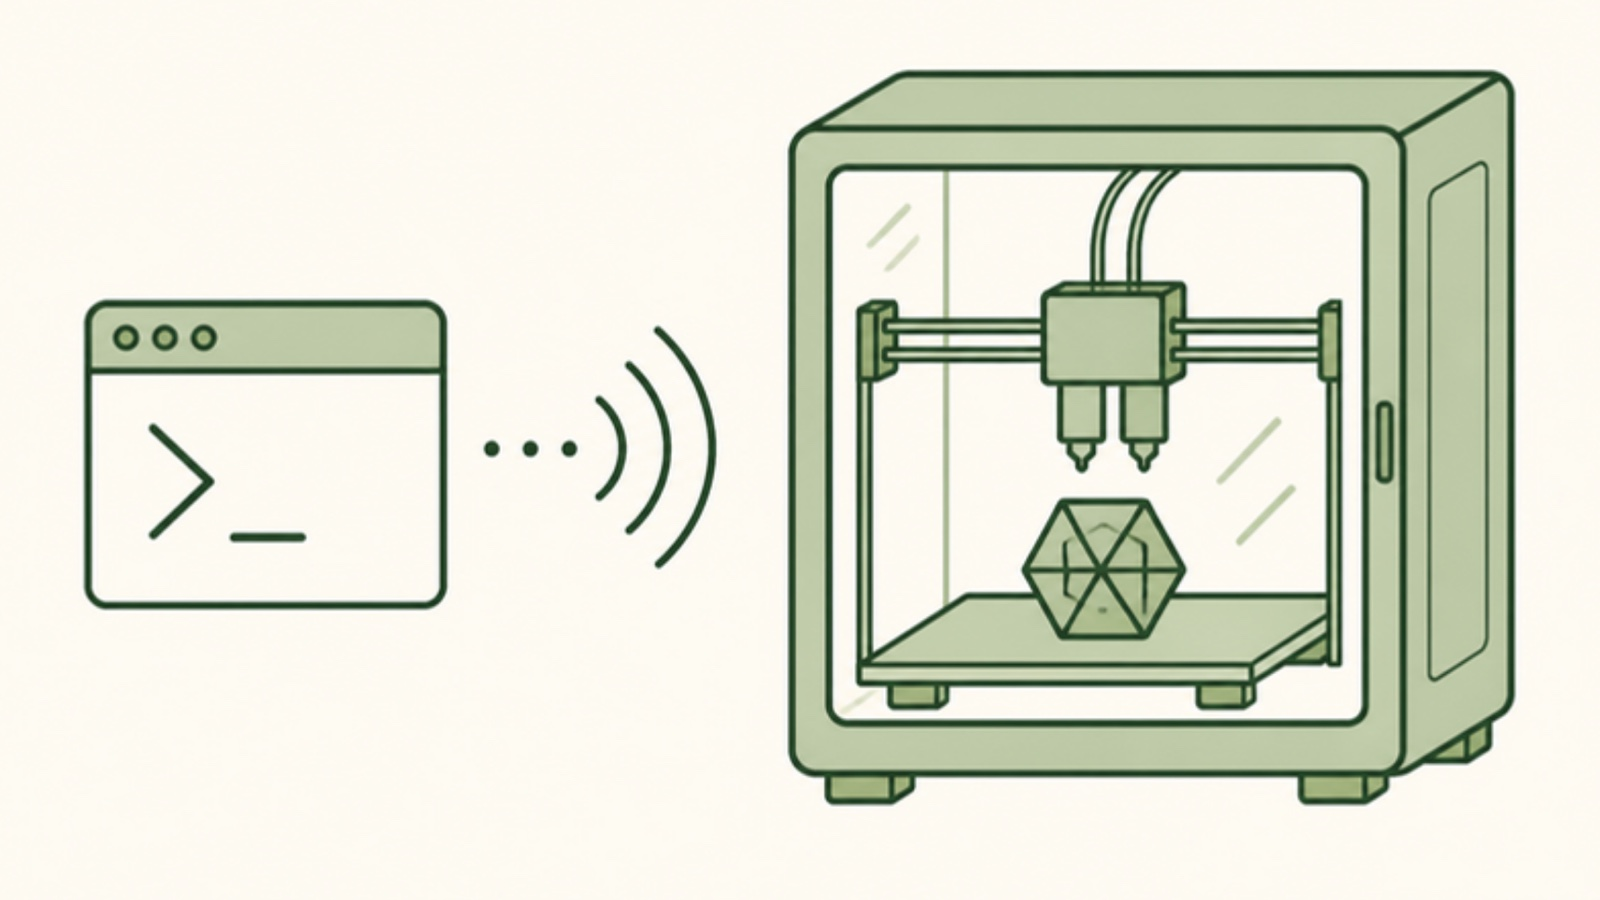
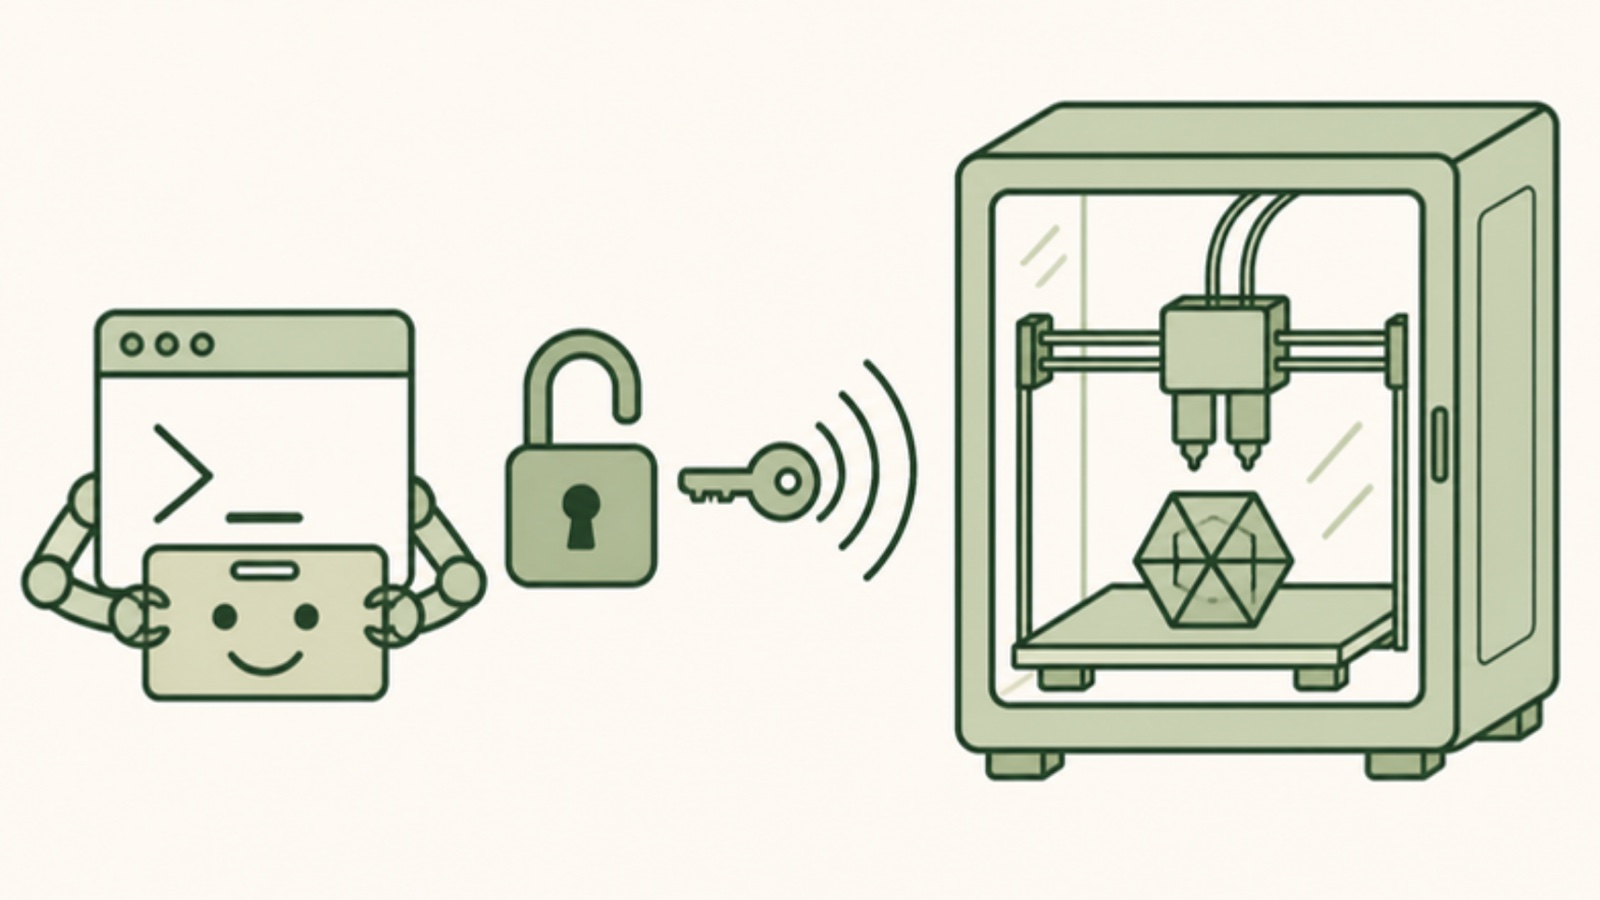
Use masquerade title and cover for Bambu Headless post and add project tile

diff --git a/index.html b/index.html
@@ -67,7 +67,8 @@
           { "@type": "ListItem", "position": 7, "item": { "@type": "SoftwareSourceCode", "name": "H2D Custom Dashboard", "description": "Local status monitoring and optional exhaust control for the Bambu H2D.", "url": "https://danielyaa5.github.io/h2d-custom-dashboard/", "codeRepository": "https://github.com/danielyaa5/h2d-custom-dashboard", "author": { "@id": "https://danielyakobian.com/#person" } } },
           { "@type": "ListItem", "position": 8, "item": { "@type": "WebApplication", "name": "Buy or Rent", "description": "Compare the long-term numbers behind buying a home versus renting.", "url": "https://buy-or-rent-web.vercel.app/", "sameAs": ["https://github.com/danielyaa5/buy-or-rent-web"], "applicationCategory": "FinanceApplication", "operatingSystem": "Any", "browserRequirements": "Requires JavaScript", "isAccessibleForFree": true, "author": { "@id": "https://danielyakobian.com/#person" } } },
           { "@type": "ListItem", "position": 9, "item": { "@type": "SoftwareApplication", "name": "qtfaststart2", "description": "Move MP4 metadata to the front for faster streaming starts without re-encoding.", "url": "https://github.com/danielyaa5/qtfaststart2", "sameAs": ["https://pypi.org/project/qtfaststart2/"], "applicationCategory": "DeveloperApplication", "operatingSystem": "macOS, Windows, Linux", "isAccessibleForFree": true, "author": { "@id": "https://danielyakobian.com/#person" } } },
-          { "@type": "ListItem", "position": 10, "item": { "@type": "SoftwareApplication", "name": "Netflix PiP Fixer", "description": "Keep Netflix picture-in-picture available while you browse.", "url": "https://github.com/danielyaa5/netflix-pip-fixer", "applicationCategory": "BrowserApplication", "operatingSystem": "Chrome", "isAccessibleForFree": true, "author": { "@id": "https://danielyakobian.com/#person" } } }
+          { "@type": "ListItem", "position": 10, "item": { "@type": "SoftwareApplication", "name": "Netflix PiP Fixer", "description": "Keep Netflix picture-in-picture available while you browse.", "url": "https://github.com/danielyaa5/netflix-pip-fixer", "applicationCategory": "BrowserApplication", "operatingSystem": "Chrome", "isAccessibleForFree": true, "author": { "@id": "https://danielyakobian.com/#person" } } },
+          { "@type": "ListItem", "position": 11, "item": { "@type": "SoftwareApplication", "name": "bambu-headless", "description": "Run a Bambu H2D from a macOS terminal while keeping Handy enabled and Developer Mode off.", "url": "https://github.com/danielyaa5/bambu-headless", "applicationCategory": "DeveloperApplication", "operatingSystem": "macOS", "isAccessibleForFree": true, "author": { "@id": "https://danielyakobian.com/#person" } } }
         ]
       }
     ]
@@ -142,7 +143,7 @@
           <button type="button" data-filter="developer" aria-pressed="false" aria-controls="project-list">Developer tools</button>
           <button type="button" data-filter="printing" aria-pressed="false" aria-controls="project-list">3D printing</button>
         </div>
-        <p class="filter-count" role="status" aria-live="polite" hidden>8 projects</p>
+        <p class="filter-count" role="status" aria-live="polite" hidden>9 projects</p>
         <div class="project-grid" id="project-list" aria-labelledby="other-projects-title">
           <article class="project project-shop" data-category="printing">
             <div class="project-main">
@@ -232,12 +233,23 @@
             </div>
             <div class="project-footer"><a class="project-link" href="https://github.com/danielyaa5/netflix-pip-fixer" aria-label="Netflix PiP Fixer on GitHub"><img class="link-icon" src="assets/illustrations/link.svg" width="14" height="14" alt=""><span>github.com/danielyaa5/netflix-pip-fixer</span></a></div>
           </article>
+          <article class="project" data-category="printing">
+            <div class="project-main">
+              <div class="project-art"><img class="project-illustration" src="assets/illustrations/bambu-headless.webp" width="1475" height="778" style="--art-width: 145px" alt=""></div>
+              <div class="project-copy">
+                <h2><a class="project-name" href="https://github.com/danielyaa5/bambu-headless">bambu-headless</a></h2>
+                <p class="project-benefit">Run a Bambu H2D from a macOS terminal while keeping Handy enabled and Developer Mode off.</p>
+                <span class="category">3D printing</span>
+              </div>
+            </div>
+            <div class="project-footer"><a class="project-link" href="https://github.com/danielyaa5/bambu-headless" aria-label="bambu-headless on GitHub"><img class="link-icon" src="assets/illustrations/link.svg" width="14" height="14" alt=""><span>github.com/danielyaa5/bambu-headless</span></a></div>
+          </article>
         </div>
       </section>
       <section class="writing" id="writing" aria-labelledby="writing-title">
         <h2 id="writing-title">Writings</h2>
         <div class="writing-grid">
-          <article class="writing-card"><h3><a href="blog/bambu-headless-cli.html">Running my Bambu H2D from the command line</a></h3><p>A macOS CLI for checking my Bambu H2D, managing sliced files and starting a print while keeping Handy enabled and Developer Mode off.</p><img class="writing-thumb" src="assets/writing/bambu-headless-cli.webp" width="1600" height="900" alt="Illustration of a terminal window sending commands wirelessly to an enclosed dual-nozzle 3D printer" loading="lazy"><a class="writing-link" href="blog/bambu-headless-cli.html">Read article →</a></article>
+          <article class="writing-card"><h3><a href="blog/bambu-headless-cli.html">Bypassing Bambu’s MQTT signature check by masquerading as Bambu Studio</a></h3><p>How a <code>dyld</code> executable-path shim and a C++ bridge let a Python CLI sign H2D print commands using Studio’s own closed-source networking dylib.</p><img class="writing-thumb" src="assets/writing/bambu-headless-cli.webp" width="1600" height="900" alt="Illustration of a terminal window holding a disguise mask to pass a signature checkpoint and reach an enclosed dual-nozzle 3D printer" loading="lazy"><a class="writing-link" href="blog/bambu-headless-cli.html">Read article →</a></article>
           <article class="writing-card"><h3><a href="blog/agent-qa-separate-macos-account.html">Giving my AI agent its own Mac account for QA</a></h3><p>How I use a second macOS account to give an AI agent its own desktop for app testing while I keep working.</p><img class="writing-thumb" src="assets/writing/screen-sharing-recursion.webp" width="1600" height="900" alt="Illustration of Screen Sharing windows nested inside each other, switching between the main and QA accounts" loading="lazy"><a class="writing-link" href="blog/agent-qa-separate-macos-account.html">Read article →</a></article>
           <article class="writing-card writing-card-wide"><h3><a href="https://github.com/danielyaa5/ai-trader-writeup">Building an AI Trader With Deterministic Risk Controls</a></h3><p>I built an experimental trading system that uses one model to propose trades, two others to review them, and Python to enforce the rules between those steps.</p><img class="writing-thumb" src="assets/writing/ai-trader.webp" width="1600" height="900" alt="AI Trader dashboard charts with fictional demo data: account equity per run, a decision funnel, reviewer verdicts, top veto reasons and exit contract ladders" loading="lazy"><a class="writing-link" href="https://github.com/danielyaa5/ai-trader-writeup">Read article →</a></article>
         </div>

diff --git a/blog/bambu-headless-cli.html b/blog/bambu-headless-cli.html
@@ -3,12 +3,12 @@
 <head>
   <meta charset="utf-8">
   <meta name="viewport" content="width=device-width, initial-scale=1">
-  <meta name="description" content="A macOS CLI for checking my Bambu H2D, managing sliced files and starting a print while keeping Handy enabled and Developer Mode off.">
+  <meta name="description" content="How a dyld executable-path shim and a C++ bridge let a Python CLI sign H2D print commands using Studio’s own closed-source networking dylib.">
   <meta name="author" content="Daniel Yakobian">
   <meta name="theme-color" content="#fdfaf3">
   <meta property="og:site_name" content="Daniel Yakobian">
-  <meta property="og:title" content="Running my Bambu H2D from the command line">
-  <meta property="og:description" content="A macOS CLI for checking my Bambu H2D, managing sliced files and starting a print while keeping Handy enabled and Developer Mode off.">
+  <meta property="og:title" content="Bypassing Bambu’s MQTT signature check by masquerading as Bambu Studio">
+  <meta property="og:description" content="How a dyld executable-path shim and a C++ bridge let a Python CLI sign H2D print commands using Studio’s own closed-source networking dylib.">
   <meta property="og:type" content="article">
   <meta property="og:url" content="https://danielyakobian.com/blog/bambu-headless-cli.html">
   <meta property="og:image" content="https://danielyakobian.com/assets/writing/bambu-headless-cli.jpg">
@@ -17,7 +17,7 @@
   <meta property="article:published_time" content="2026-10-26">
   <meta property="article:author" content="https://danielyakobian.com/">
   <meta name="twitter:card" content="summary_large_image">
-  <title>Running my Bambu H2D from the command line | Daniel Yakobian</title>
+  <title>Bypassing Bambu’s MQTT signature check by masquerading as Bambu Studio | Daniel Yakobian</title>
   <link rel="canonical" href="https://danielyakobian.com/blog/bambu-headless-cli.html">
   <link rel="icon" type="image/png" sizes="128x128" href="../assets/favicon.png">
   <link rel="stylesheet" href="../styles.css?v=mobile-touch-1">
@@ -26,8 +26,8 @@
   {
     "@context": "https://schema.org",
     "@type": "BlogPosting",
-    "headline": "Running my Bambu H2D from the command line",
-    "description": "A macOS CLI for checking my Bambu H2D, managing sliced files and starting a print while keeping Handy enabled and Developer Mode off.",
+    "headline": "Bypassing Bambu’s MQTT signature check by masquerading as Bambu Studio",
+    "description": "How a dyld executable-path shim and a C++ bridge let a Python CLI sign H2D print commands using Studio’s own closed-source networking dylib.",
     "url": "https://danielyakobian.com/blog/bambu-headless-cli.html",
     "mainEntityOfPage": "https://danielyakobian.com/blog/bambu-headless-cli.html",
     "image": "https://danielyakobian.com/assets/writing/bambu-headless-cli.jpg",
@@ -45,10 +45,10 @@
     <header class="site-header"><a class="identity" href="../" aria-label="Daniel, home">Daniel</a><nav aria-label="Main navigation"><a href="../#work">Work</a><a href="./" aria-current="page">Blog</a><a href="https://github.com/danielyaa5">GitHub</a></nav></header>
     <main id="content">
       <article class="blog-article">
-        <header class="article-header"><p class="eyebrow">Notes on 3D printing</p><h1>Running my Bambu H2D from the command line</h1><p class="article-meta"><a href="../" rel="author">Daniel Yakobian</a> · <time datetime="2026-10-26">October 26, 2026</time></p></header>
+        <header class="article-header"><p class="eyebrow">Notes on 3D printing</p><h1>Bypassing Bambu’s MQTT signature check by masquerading as Bambu Studio</h1><p class="article-meta"><a href="../" rel="author">Daniel Yakobian</a> · <time datetime="2026-10-26">October 26, 2026</time></p></header>
         <div class="article-body">
-          <p>I wanted to send an already sliced print to my Bambu H2D from a terminal, without opening Bambu Studio or giving up Handy. That became <a href="https://github.com/danielyaa5/bambu-headless">bambu-headless</a>: a small macOS CLI for checking the printer, managing its files and starting a job.</p>
-          <figure class="article-figure"><img src="../assets/writing/bambu-headless-cli.webp" width="1600" height="900" alt="Illustration of a terminal window sending commands wirelessly to an enclosed dual-nozzle 3D printer"><figcaption>Sending print and file commands from a macOS terminal to the enclosed H2D.</figcaption></figure>
+          <p>I wanted to send an already sliced print to my Bambu H2D from a terminal, without opening Bambu Studio or giving up Handy. That became <a href="https://github.com/danielyaa5/bambu-headless">bambu-headless</a>: a small macOS CLI that loads Studio’s closed-source networking dylib through a C++ bridge and uses a <code>dyld</code> executable-path shim to sign print commands.</p>
+          <figure class="article-figure"><img src="../assets/writing/bambu-headless-cli.webp" width="1600" height="900" alt="Illustration of a terminal window holding a disguise mask to pass a signature checkpoint and reach an enclosed dual-nozzle 3D printer"><figcaption>Masquerading as Bambu Studio’s executable path so the networking plugin signs local MQTT print commands.</figcaption></figure>
           <p>The printer keeps its cloud connection, Developer Mode stays off, and Studio can stay closed. The less obvious part is that the tool still depends on Studio's installed networking plugin.</p>
 
           <h2>Connecting was the easy part</h2>

diff --git a/blog/index.html b/blog/index.html
@@ -29,7 +29,7 @@
     "inLanguage": "en",
     "author": { "@type": "Person", "@id": "https://danielyakobian.com/#person", "name": "Daniel Yakobian", "url": "https://danielyakobian.com/" },
     "blogPost": [
-      {"@type": "BlogPosting", "headline": "Running my Bambu H2D from the command line", "url": "https://danielyakobian.com/blog/bambu-headless-cli.html", "datePublished": "2026-10-26"},
+      {"@type": "BlogPosting", "headline": "Bypassing Bambu’s MQTT signature check by masquerading as Bambu Studio", "url": "https://danielyakobian.com/blog/bambu-headless-cli.html", "datePublished": "2026-10-26"},
       { "@type": "BlogPosting", "headline": "Teaching my K1 Max to turn on its own chamber heater", "url": "https://danielyakobian.com/blog/k1-max-chamber-heater.html", "datePublished": "2026-10-23" },
       { "@type": "BlogPosting", "headline": "Giving my AI agent its own Mac account for QA", "url": "https://danielyakobian.com/blog/agent-qa-separate-macos-account.html", "datePublished": "2026-10-22" },
       { "@type": "BlogPosting", "headline": "Building an AI Trader With Deterministic Risk Controls", "url": "https://github.com/danielyaa5/ai-trader-writeup", "datePublished": "2026-10-22" },
@@ -49,9 +49,9 @@
         <h1>Blog</h1>
         <article class="post-card">
           <p class="article-meta"><time datetime="2026-10-26">October 26, 2026</time></p>
-          <h2><a href="bambu-headless-cli.html">Running my Bambu H2D from the command line</a></h2>
-          <p>A macOS CLI for checking my Bambu H2D, managing sliced files and starting a print while keeping Handy enabled and Developer Mode off.</p>
-          <img class="writing-thumb" src="../assets/writing/bambu-headless-cli.webp" width="1600" height="900" alt="Illustration of a terminal window sending commands wirelessly to an enclosed dual-nozzle 3D printer">
+          <h2><a href="bambu-headless-cli.html">Bypassing Bambu’s MQTT signature check by masquerading as Bambu Studio</a></h2>
+          <p>How a <code>dyld</code> executable-path shim and a C++ bridge let a Python CLI sign H2D print commands using Studio’s own closed-source networking dylib.</p>
+          <img class="writing-thumb" src="../assets/writing/bambu-headless-cli.webp" width="1600" height="900" alt="Illustration of a terminal window holding a disguise mask to pass a signature checkpoint and reach an enclosed dual-nozzle 3D printer">
           <a class="read-post" href="bambu-headless-cli.html">Read the post →</a>
         </article>
         <article class="post-card">
